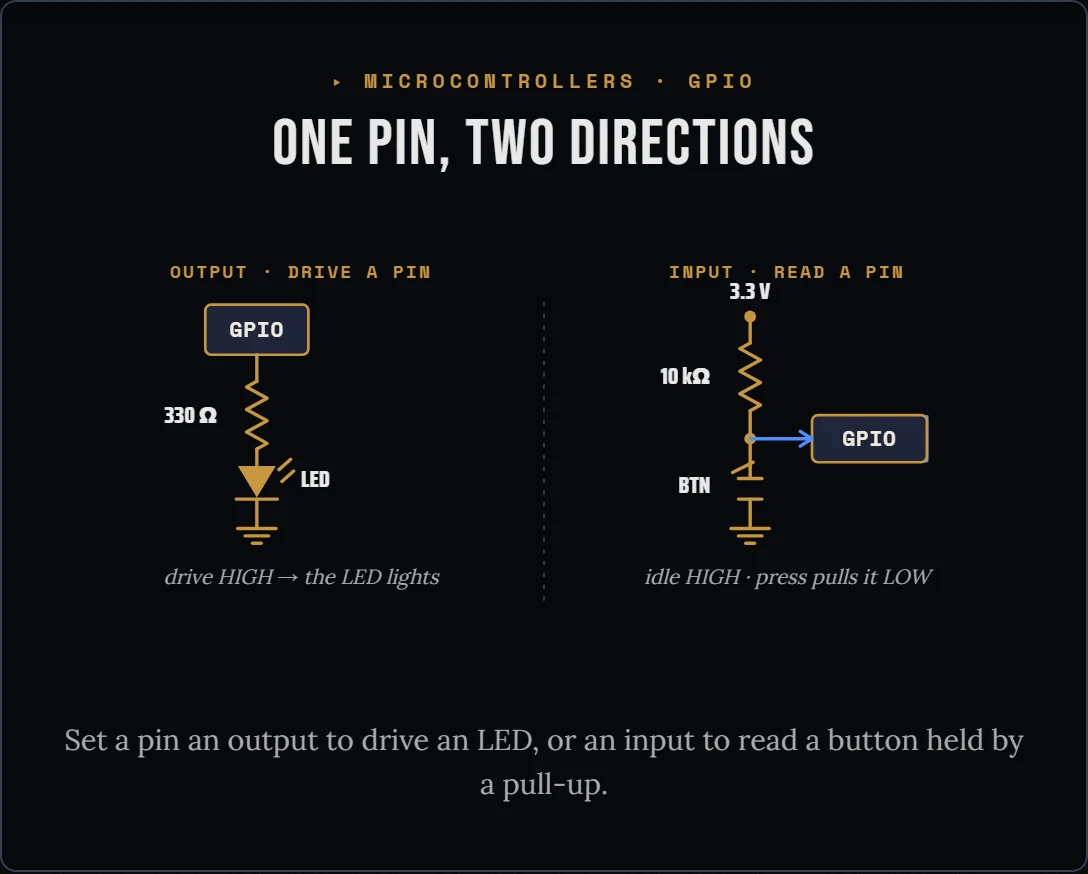
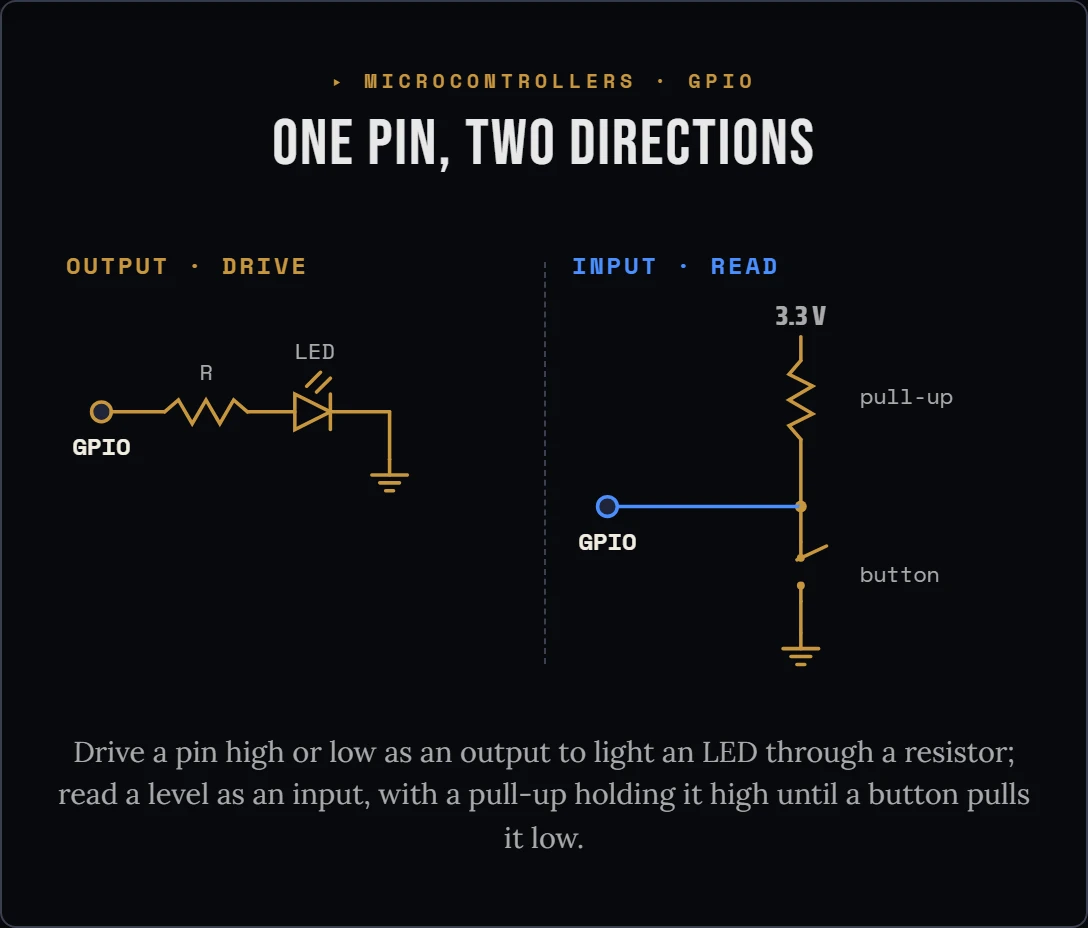
redo(diagrams): mcu-gpio-in-out — two schematic panels (2/11)
Rebuild to the house bar: two real schematics instead of abstract blocks. Output
panel drives an LED through a resistor to ground; input panel reads a button held
high by a pull-up. Gold = the drive path, blue = the read path. Each panel is its
own SVG so they stack full-width on a phone (labels never shrink). Landscape 1.24.

diff --git a/src/components/guide/diagrams/McuGpioInOut.tsx b/src/components/guide/diagrams/McuGpioInOut.tsx
@@ -1,29 +1,24 @@
-// GPIO: one pin, two directions (v2). Microcontrollers & ESP32 cluster.
+// GPIO: one pin, two directions (diagram-standards v2). MCU cluster, diagram 2.
+// Owner-picked G1: two schematic panels.
 //
-// Teaching point: the same GPIO pin is an OUTPUT (drive it high or low to light
-// an LED through a resistor) or an INPUT (read a button, held to a known level by
-// a pull-up). Gold = the driven/forward path; blue = the value read back in.
+// Teaching point (lesson 1): a GPIO pin is set as an output to drive a wire high
+// or low (lighting an LED through a resistor) or as an input to read a level
+// (a pull-up holds it high until a button pulls it low). Left panel = the output
+// circuit; right panel = the input circuit. Gold is the drive path, blue is the
+// read path.
 //
-// Landscape desktop/print: two mini-schematics side by side. REFLOWS on a phone
-// to two stacked summary cards. Token-only color.
+// Two real schematics (resistor, LED, button, ground). Each panel is its own SVG
+// in a flex row, so on a phone they STACK and each fills the width instead of
+// shrinking its labels. Token color, both themes. Header + caption from DiagramFrame.
 import { DiagramFrame } from "./DiagramFrame";
 
-// vertical zigzag resistor from (cx,y0) down height h
-function vRes(cx: number, y0: number, h: number): string {
-  const n = 6;
-  const seg = h / n;
-  const pts: [number, number][] = [[cx, y0]];
-  for (let i = 0; i < n; i++) pts.push([cx + (i % 2 ? 7 : -7), y0 + seg * (i + 0.5)]);
-  pts.push([cx, y0 + h]);
-  return pts.map((p) => p.join(",")).join(" ");
-}
-
-function Ground({ cx, y }: { cx: number; y: number }) {
+function Gnd({ x, y }: { x: number; y: number }) {
   return (
     <>
-      <line className="gio-w" x1={cx - 13} y1={y} x2={cx + 13} y2={y} />
-      <line className="gio-w" x1={cx - 8} y1={y + 5} x2={cx + 8} y2={y + 5} />
-      <line className="gio-w" x1={cx - 3} y1={y + 10} x2={cx + 3} y2={y + 10} />
+      <line x1={x} y1={y} x2={x} y2={y + 8} className="gpw" />
+      <line x1={x - 9} y1={y + 8} x2={x + 9} y2={y + 8} className="gpw" />
+      <line x1={x - 5} y1={y + 12} x2={x + 5} y2={y + 12} className="gpw" />
+      <line x1={x - 2} y1={y + 16} x2={x + 2} y2={y + 16} className="gpw" />
     </>
   );
 }
@@ -34,99 +29,89 @@ export function McuGpioInOut({ caption }: { caption?: string }) {
       eyebrow="MICROCONTROLLERS · GPIO"
       tone="gold"
       title="One pin, two directions"
-      ariaLabel="A GPIO pin shown two ways. On the left, as an output: the pin drives current down through a 330 ohm resistor and an LED to ground, so setting the pin high lights the LED. On the right, as an input: a 10 kilohm pull-up resistor ties the pin to the 3.3 volt rail, and a button connects the pin to ground, so the pin reads high when idle and low when the button is pressed. The value is read back into the chip."
+      ariaLabel="One GPIO pin shown two ways. As an output, the pin drives current through a resistor and an LED to ground, lighting the LED. As an input, a pull-up resistor ties the pin to 3.3 volts so it reads high, until a button to ground pulls it low. You set the direction first, then write the pin or read it."
       caption={caption}
-      defaultCaption="Set a pin an output to drive an LED, or an input to read a button held by a pull-up."
+      defaultCaption="Drive a pin high or low as an output to light an LED through a resistor; read a level as an input, with a pull-up holding it high until a button pulls it low."
     >
       <style>{CSS}</style>
-
-      <div className="gio">
-        {/* desktop / print */}
-        <svg className="gio-scene" viewBox="0 0 660 296" aria-hidden="true">
-          {/* divider */}
-          <line className="gio-div" x1={330} y1={46} x2={330} y2={250} />
-
-          {/* ── OUTPUT ── */}
-          <text className="gio-hd" x={165} y={30} textAnchor="middle">OUTPUT · DRIVE A PIN</text>
-          <rect className="gio-pin" x={100} y={48} width={70} height={34} rx={4} />
-          <text className="gio-pinn" x={135} y={70} textAnchor="middle">GPIO</text>
-          <line className="gio-drv" x1={135} y1={82} x2={135} y2={100} />
-          <polyline className="gio-drv" fill="none" points={vRes(135, 100, 46)} />
-          <text className="gio-val" x={108} y={128} textAnchor="end">330 Ω</text>
-          <line className="gio-drv" x1={135} y1={146} x2={135} y2={158} />
-          {/* LED, pointing down */}
-          <path className="gio-drv-f" d="M123,158 L147,158 L135,178 Z" />
-          <line className="gio-drv" x1={121} y1={180} x2={149} y2={180} />
-          <path className="gio-drv" fill="none" d="M150,160 L158,153 M152,168 L160,161" />
-          <text className="gio-val" x={165} y={172}>LED</text>
-          <line className="gio-drv" x1={135} y1={180} x2={135} y2={200} />
-          <Ground cx={135} y={200} />
-          <text className="gio-note" x={165} y={238} textAnchor="middle">drive HIGH → the LED lights</text>
-
-          {/* ── INPUT ── */}
-          <text className="gio-hd" x={495} y={30} textAnchor="middle">INPUT · READ A PIN</text>
-          <circle className="gio-node" cx={470} cy={56} r={4} />
-          <text className="gio-val" x={470} y={44} textAnchor="middle">3.3 V</text>
-          <line className="gio-w" x1={470} y1={56} x2={470} y2={74} />
-          <polyline className="gio-w" fill="none" points={vRes(470, 74, 46)} />
-          <text className="gio-val" x={443} y={102} textAnchor="end">10 kΩ</text>
-          <line className="gio-w" x1={470} y1={120} x2={470} y2={158} />
-          <circle className="gio-node" cx={470} cy={139} r={4} />
-          {/* tap to the pin (read = blue, into chip) */}
-          <line className="gio-read" x1={470} y1={139} x2={512} y2={139} />
-          <path className="gio-read" fill="none" d="M562,124 L590,124 L590,154 L562,154" />
-          <rect className="gio-pin" x={512} y={123} width={78} height={32} rx={4} />
-          <text className="gio-pinn" x={551} y={144} textAnchor="middle">GPIO</text>
-          <path className="gio-read" fill="none" d="M504,134 L512,139 L504,144" />
-          {/* button to ground */}
-          <line className="gio-w" x1={470} y1={158} x2={470} y2={166} />
-          <line className="gio-w" x1={462} y1={166} x2={478} y2={166} />
-          <line className="gio-w" x1={462} y1={180} x2={478} y2={180} />
-          <line className="gio-w" x1={458} y1={162} x2={472} y2={155} />
-          <text className="gio-val" x={443} y={176} textAnchor="end">BTN</text>
-          <line className="gio-w" x1={470} y1={180} x2={470} y2={200} />
-          <Ground cx={470} y={200} />
-          <text className="gio-note" x={495} y={238} textAnchor="middle">idle HIGH · press pulls it LOW</text>
+      <div className="gp">
+        {/* OUTPUT panel */}
+        <svg className="gp-svg" viewBox="0 0 236 150" aria-hidden="true">
+          <text x="4" y="14" className="gp-po">OUTPUT · DRIVE</text>
+          <circle cx="22" cy="84" r="5" className="gpn" />
+          <text x="22" y="106" textAnchor="middle" className="gp-pin">GPIO</text>
+          <line x1="27" y1="84" x2="54" y2="84" className="gpw" />
+          <path d="M54 84 L61 78 L68 90 L75 78 L82 90 L89 78 L96 84" className="gpw" fill="none" />
+          <text x="75" y="68" textAnchor="middle" className="gp-l">R</text>
+          <line x1="96" y1="84" x2="120" y2="84" className="gpw" />
+          {/* LED */}
+          <path d="M120 75 L120 93 L138 84 Z" className="gpw" fill="none" />
+          <line x1="138" y1="75" x2="138" y2="93" className="gpw" />
+          <line x1="126" y1="71" x2="133" y2="64" className="gpw" />
+          <line x1="131" y1="74" x2="138" y2="67" className="gpw" />
+          <text x="130" y="57" textAnchor="middle" className="gp-l">LED</text>
+          <line x1="138" y1="84" x2="168" y2="84" className="gpw" />
+          <line x1="168" y1="84" x2="168" y2="108" className="gpw" />
+          <Gnd x={168} y={108} />
         </svg>
 
-        {/* phone reflow */}
-        <div className="gio-phone" aria-hidden="true">
-          <div className="gio-card">
-            <span className="gio-ceye gio-gold">Output · drive</span>
-            <span className="gio-cv">Pin → <b>330 Ω</b> → LED → GND. Drive the pin HIGH and the LED lights.</span>
-          </div>
-          <div className="gio-card">
-            <span className="gio-ceye gio-blue">Input · read</span>
-            <span className="gio-cv"><b>3.3 V</b> → 10 kΩ pull-up → pin, with a button to GND. Idle reads HIGH; a press pulls it LOW.</span>
-          </div>
-        </div>
+        <div className="gp-div" aria-hidden="true" />
+
+        {/* INPUT panel */}
+        <svg className="gp-svg" viewBox="0 0 236 220" aria-hidden="true">
+          <text x="4" y="14" className="gp-pi">INPUT · READ</text>
+          <text x="120" y="40" textAnchor="middle" className="gp-v">3.3 V</text>
+          <line x1="120" y1="46" x2="120" y2="58" className="gpw" />
+          <path d="M120 58 L114 65 L126 71 L114 78 L126 85 L114 91 L120 98" className="gpw" fill="none" />
+          <text x="150" y="80" className="gp-l">pull-up</text>
+          <line x1="120" y1="98" x2="120" y2="132" className="gpw" />
+          <circle cx="120" cy="132" r="3" className="gp-dot" />
+          {/* read path — blue */}
+          <line x1="120" y1="132" x2="27" y2="132" className="gpwb" />
+          <circle cx="22" cy="132" r="5" className="gpnb" />
+          <text x="22" y="154" textAnchor="middle" className="gp-pin">GPIO</text>
+          {/* button to ground */}
+          <line x1="120" y1="132" x2="120" y2="150" className="gpw" />
+          <line x1="120" y1="150" x2="120" y2="158" className="gpw" />
+          <line x1="120" y1="172" x2="120" y2="180" className="gpw" />
+          <circle cx="120" cy="158" r="2" className="gp-dotf" />
+          <circle cx="120" cy="172" r="2" className="gp-dotf" />
+          <line x1="118" y1="159" x2="133" y2="152" className="gpw" />
+          <text x="150" y="170" className="gp-l">button</text>
+          <line x1="120" y1="180" x2="120" y2="196" className="gpw" />
+          <Gnd x={120} y={196} />
+        </svg>
       </div>
     </DiagramFrame>
   );
 }
 
 const CSS = `
-.gio{display:block;}
-.gio-scene{display:block;width:100%;height:auto;overflow:visible;}
-.gio-div{stroke:var(--color-panel-border,#3a3f50);stroke-width:1.2;stroke-dasharray:3 5;}
-.gio-w{fill:none;stroke:var(--color-command-gold,#c8963e);stroke-width:2.3;stroke-linecap:round;stroke-linejoin:round;}
-.gio-drv{fill:none;stroke:var(--color-command-gold,#c8963e);stroke-width:2.3;stroke-linecap:round;stroke-linejoin:round;}
-.gio-drv-f{fill:var(--color-command-gold,#c8963e);stroke:var(--color-command-gold,#c8963e);stroke-width:1;}
-.gio-read{fill:none;stroke:var(--color-signal-blue,#4a8fff);stroke-width:2.3;stroke-linecap:round;stroke-linejoin:round;}
-.gio-node{fill:var(--color-command-gold,#c8963e);}
-.gio-pin{fill:var(--color-navy-dark,#1a1a2e);stroke:var(--color-command-gold,#c8963e);stroke-width:1.8;}
-.gio-pinn{font-family:var(--font-mono,"Space Mono",monospace);font-weight:700;font-size:14px;letter-spacing:.05em;fill:var(--color-title,#f1ece0);}
-.gio-hd{font-family:var(--font-mono,"Space Mono",monospace);font-weight:700;font-size:12px;letter-spacing:.13em;fill:var(--color-command-gold,#c8963e);}
-.gio-val{font-family:var(--font-numeral,"Saira Condensed",sans-serif);font-weight:800;font-size:15px;fill:var(--color-text,#e8e8e8);}
-.gio-note{font-family:var(--font-serif,"Lora",serif);font-style:italic;font-size:14px;fill:var(--color-muted,#aaa);}
+.gp{display:flex;gap:.6rem;align-items:flex-start;justify-content:center;max-width:36rem;margin-inline:auto;padding-top:.4rem;}
+.gp-svg{flex:1 1 236px;min-width:0;max-width:266px;height:auto;overflow:visible;}
+.gp-div{flex:0 0 0;align-self:stretch;border-left:1px dashed var(--color-panel-border,#3a3f50);margin:.5rem 0;}
+@media (max-width:520px){
+  .gp{flex-direction:column;gap:.2rem;}
+  .gp-svg{max-width:min(320px,100%);}
+  .gp-div{align-self:stretch;border-left:0;border-top:1px dashed var(--color-panel-border,#3a3f50);margin:0 2rem;width:auto;}
+}
+.gpw{stroke:var(--color-command-gold,#c8963e);stroke-width:1.8;fill:none;stroke-linecap:round;}
+.gpwb{stroke:var(--color-signal-blue,#4a8fff);stroke-width:1.8;fill:none;stroke-linecap:round;}
+.gpn{fill:var(--color-navy-dark,#1a1a2e);stroke:var(--color-command-gold,#c8963e);stroke-width:1.8;}
+.gpnb{fill:var(--color-navy-dark,#1a1a2e);stroke:var(--color-signal-blue,#4a8fff);stroke-width:1.8;}
+.gp-dot{fill:var(--color-command-gold,#c8963e);}
+.gp-dotf{fill:var(--color-command-gold,#c8963e);}
+.gp-po{font-family:var(--font-mono,"Space Mono",monospace);font-weight:700;font-size:12px;letter-spacing:.12em;fill:var(--color-command-gold,#c8963e);}
+.gp-pi{font-family:var(--font-mono,"Space Mono",monospace);font-weight:700;font-size:12px;letter-spacing:.12em;fill:var(--color-signal-blue,#4a8fff);}
+.gp-pin{font-family:var(--font-mono,"Space Mono",monospace);font-weight:700;font-size:12px;fill:var(--color-title,#f1ece0);}
+.gp-l{font-family:var(--font-mono,"Space Mono",monospace);font-size:11px;fill:var(--color-muted,#aaaaaa);}
+.gp-v{font-family:var(--font-numeral,"Saira Condensed",sans-serif);font-weight:700;font-size:14px;fill:var(--color-muted,#aaaaaa);}
 
-/* phone reflow */
-.gio-phone{display:none;}
-@media (max-width:520px){ .gio-scene{display:none;} .gio-phone{display:block;text-align:left;} }
-.gio-card{border:1px solid var(--color-panel-border,#3a3f50);background:var(--color-navy-dark,#1a1a2e);border-radius:6px;padding:.6rem .75rem;margin-bottom:.55rem;display:flex;flex-direction:column;gap:.25rem;}
-.gio-ceye{font-family:var(--font-mono,"Space Mono",monospace);font-weight:700;font-size:.68rem;letter-spacing:.12em;text-transform:uppercase;}
-.gio-gold{color:var(--color-command-gold,#c8963e);}
-.gio-blue{color:var(--color-signal-blue,#4a8fff);}
-.gio-cv{font-family:var(--font-serif,"Lora",serif);font-size:.94rem;line-height:1.45;color:var(--color-text,#e8e8e8);}
-.gio-cv b{font-family:var(--font-numeral,"Saira Condensed",sans-serif);font-weight:800;color:var(--color-title,#f1ece0);}
+/* Tier-B reveal off the frame's armed/in contract (final state under reduced-motion). */
+.dgfrm.armed .gp-svg{opacity:0;transform:translateY(6px);}
+.dgfrm.armed.in .gp-svg{opacity:1;transform:none;transition:opacity .55s ease,transform .55s cubic-bezier(.2,.7,.2,1);}
+.dgfrm.armed.in .gp-svg:last-of-type{transition-delay:.12s;}
+@media (prefers-reduced-motion:reduce){
+  .dgfrm .gp-svg{opacity:1!important;transform:none!important;transition:none!important;}
+}
 `;
